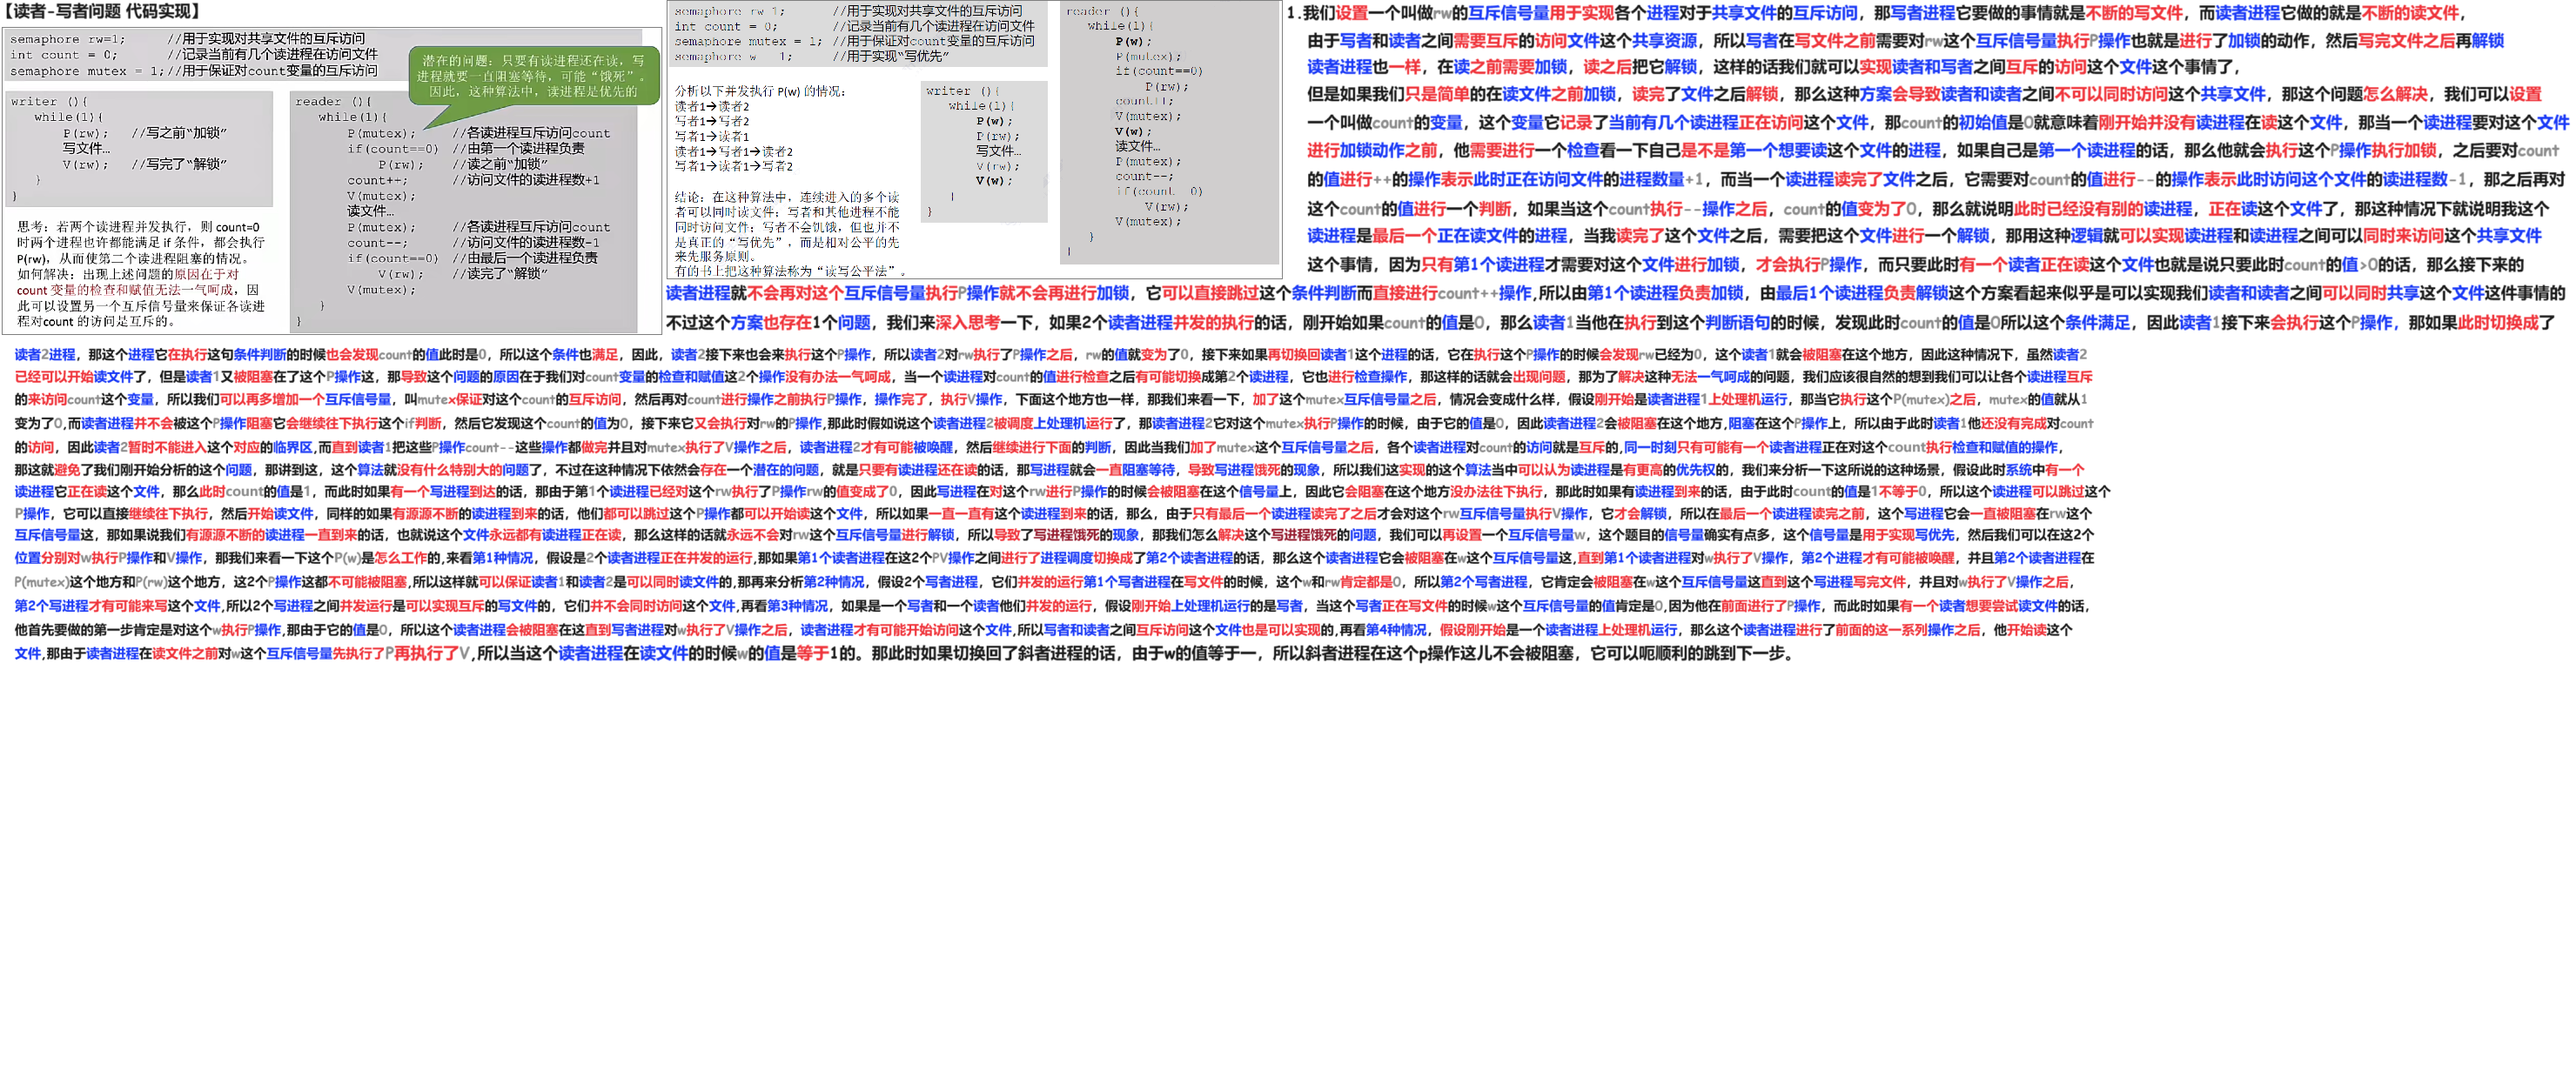
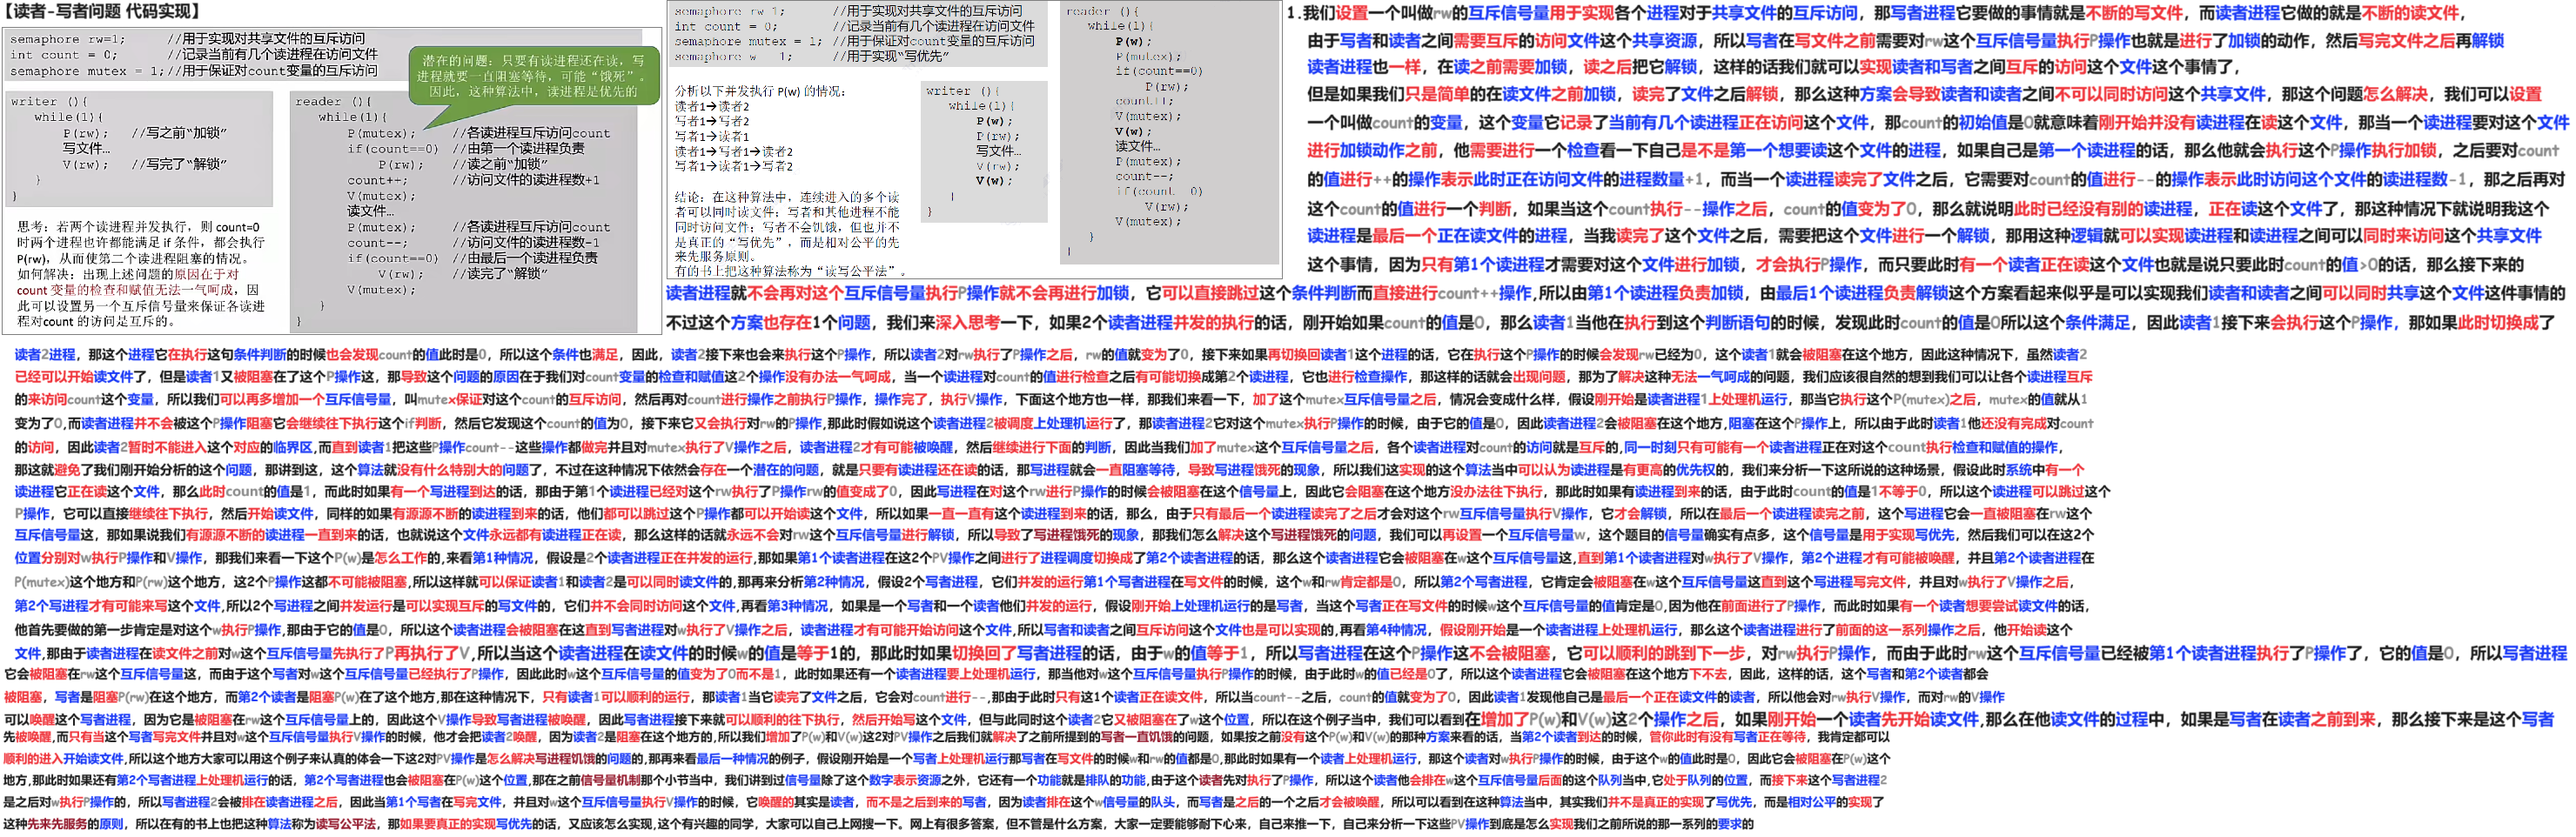
240507

diff --git a/01 初试/01 OS/02 24 25 王道/01 基础/02 进程 线程/03 同步 互斥/11 读者-写者问题 240506/02 Doc.md b/01 初试/01 OS/02 24 25 王道/01 基础/02 进程 线程/03 同步 互斥/11 读者-写者问题 240506/02 Doc.md
@@ -16,3 +16,10 @@
 
 # 03  读者-写者问题 代码实现
 
+<img src="https://cvp.oss-cn-shanghai.aliyuncs.com/picgo/202405071052621.png" alt="image-20240507105204133" style="zoom:50%;" />
+
+
+
+# 04 知识回顾与重要考点
+
+<img src="https://cvp.oss-cn-shanghai.aliyuncs.com/picgo/202405071114608.png" alt="image-20240507111414474" style="zoom:50%;" />
